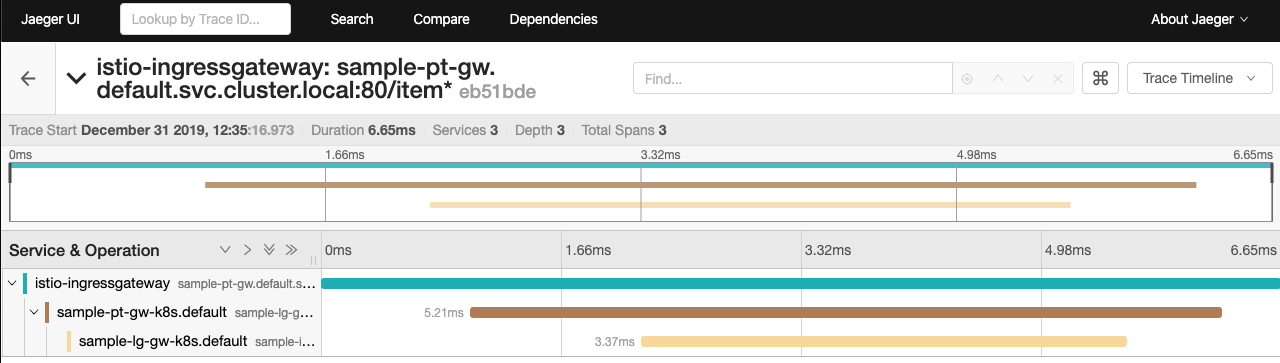
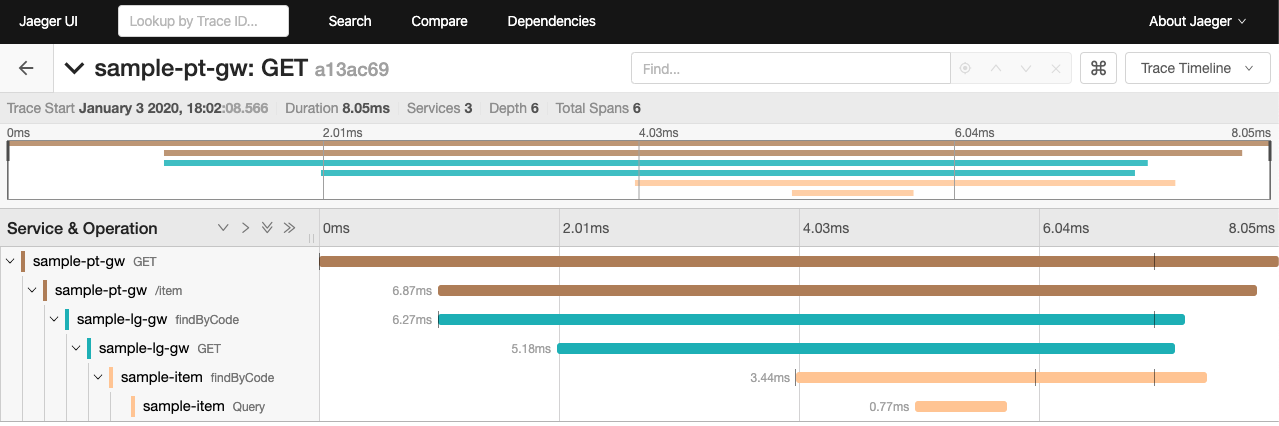
fix jaeger problem, this version can trace all

diff --git a/sample-lg-gw/src/main/java/org/yfr/sample/lg/gw/web/controller/SampleLgGwController.java b/sample-lg-gw/src/main/java/org/yfr/sample/lg/gw/web/controller/SampleLgGwController.java
@@ -10,7 +10,10 @@ import org.springframework.web.bind.annotation.RequestHeader;
 import org.springframework.web.bind.annotation.RequestParam;
 import org.springframework.web.bind.annotation.RestController;
 import org.springframework.web.client.RestTemplate;
+import org.yfr.sample.common.api.ItemApi;
+import org.yfr.sample.common.api.MemberApi;
 
+import javax.annotation.Resource;
 import java.util.List;
 
 @Slf4j
@@ -23,23 +26,31 @@ public class SampleLgGwController {
     @Value("${host.sample.member}")
     private String memberHost;
 
+    @Resource
+    private ItemApi itemApi;
+
+    @Resource
+    private MemberApi memberApi;
+
     private RestTemplate restTemplate = new RestTemplate();
 
     @GetMapping("/item")
     List findByCode(@RequestParam("code") String code, @RequestHeader HttpHeaders headers) throws Exception {
-        HttpHeaders newHeaders = new HttpHeaders();
-        newHeaders.addAll(headers);
-        HttpEntity entity = new HttpEntity(newHeaders);
-
-        return restTemplate.exchange(itemHost + "/item?code=" + code, HttpMethod.GET, entity, List.class).getBody();
+//        HttpHeaders newHeaders = new HttpHeaders();
+//        newHeaders.addAll(headers);
+//        HttpEntity entity = new HttpEntity(newHeaders);
+//
+//        return restTemplate.exchange(itemHost + "/item?code=" + code, HttpMethod.GET, entity, List.class).getBody();
+        return itemApi.findByCode(code);
     }
 
     @GetMapping("/member")
     List findByAccount(@RequestParam("account") String account, @RequestHeader HttpHeaders headers) throws Exception {
-        HttpHeaders newHeaders = new HttpHeaders();
-        newHeaders.addAll(headers);
-        HttpEntity entity = new HttpEntity(newHeaders);
-
-        return restTemplate.exchange(memberHost + "/member?account=" + account, HttpMethod.GET, entity, List.class).getBody();
+//        HttpHeaders newHeaders = new HttpHeaders();
+//        newHeaders.addAll(headers);
+//        HttpEntity entity = new HttpEntity(newHeaders);
+//
+//        return restTemplate.exchange(memberHost + "/member?account=" + account, HttpMethod.GET, entity, List.class).getBody();
+        return memberApi.findByAccount(account);
     }
 }

diff --git a/sample-task/src/main/java/org/yfr/sample/task/schedule/SampleTask.java b/sample-task/src/main/java/org/yfr/sample/task/schedule/SampleTask.java
@@ -10,6 +10,7 @@ import org.springframework.http.HttpMethod;
 import org.springframework.scheduling.annotation.Scheduled;
 import org.springframework.stereotype.Component;
 import org.springframework.web.client.RestTemplate;
+import org.yfr.sample.common.api.ItemApi;
 import org.yfr.sample.common.entity.Item;
 
 import javax.annotation.Resource;
@@ -21,6 +22,9 @@ public class SampleTask {
 
     @Value("${host.sample.item}")
     private String itemHost;
+
+    @Resource
+    private ItemApi itemApi;
 
     @Resource
     private RabbitTemplate rabbitTemplate;
@@ -41,7 +45,8 @@ public class SampleTask {
     @SchedulerLock(name = "parseItem", lockAtMostForString = "PT2M")
     public void parseItem() {
         try {
-            log.info("parse {}", restTemplate.exchange(itemHost + "/item", HttpMethod.POST, new HttpEntity(new HttpHeaders()), Item.class).getBody().toString());
+//            log.info("parse {}", restTemplate.exchange(itemHost + "/item", HttpMethod.POST, new HttpEntity(new HttpHeaders()), Item.class).getBody().toString());
+            log.info("parse {}", itemApi.parse().toString());
         } catch (Exception ex) {
             log.error(ex.getMessage(), ex);
         }

diff --git a/sample-task/src/main/java/org/yfr/sample/task/SampleTaskApp.java b/sample-task/src/main/java/org/yfr/sample/task/SampleTaskApp.java
@@ -3,10 +3,9 @@ package org.yfr.sample.task;
 import net.javacrumbs.shedlock.core.LockProvider;
 import net.javacrumbs.shedlock.provider.redis.spring.RedisLockProvider;
 import net.javacrumbs.shedlock.spring.annotation.EnableSchedulerLock;
-import org.springframework.amqp.core.Queue;
-import org.springframework.amqp.rabbit.annotation.RabbitListener;
 import org.springframework.boot.SpringApplication;
 import org.springframework.boot.autoconfigure.SpringBootApplication;
+import org.springframework.cloud.openfeign.EnableFeignClients;
 import org.springframework.context.annotation.Bean;
 import org.springframework.data.redis.connection.RedisConnectionFactory;
 import org.springframework.scheduling.annotation.EnableScheduling;
@@ -14,6 +13,8 @@ import org.springframework.scheduling.annotation.EnableScheduling;
 @SpringBootApplication
 @EnableScheduling
 @EnableSchedulerLock(defaultLockAtMostFor = "PT2M")
+@EnableFeignClients(basePackages = {
+        "org.yfr.sample.common.api"})
 public class SampleTaskApp {
 
     @Bean

diff --git a/sample-lg-gw/src/main/java/org/yfr/sample/lg/gw/SampleLgGwApp.java b/sample-lg-gw/src/main/java/org/yfr/sample/lg/gw/SampleLgGwApp.java
@@ -2,9 +2,12 @@ package org.yfr.sample.lg.gw;
 
 import org.springframework.boot.SpringApplication;
 import org.springframework.boot.autoconfigure.SpringBootApplication;
+import org.springframework.cloud.openfeign.EnableFeignClients;
 
 
 @SpringBootApplication
+@EnableFeignClients(basePackages = {
+        "org.yfr.sample.common.api"})
 public class SampleLgGwApp {
 
     public static void main(String[] args) {
